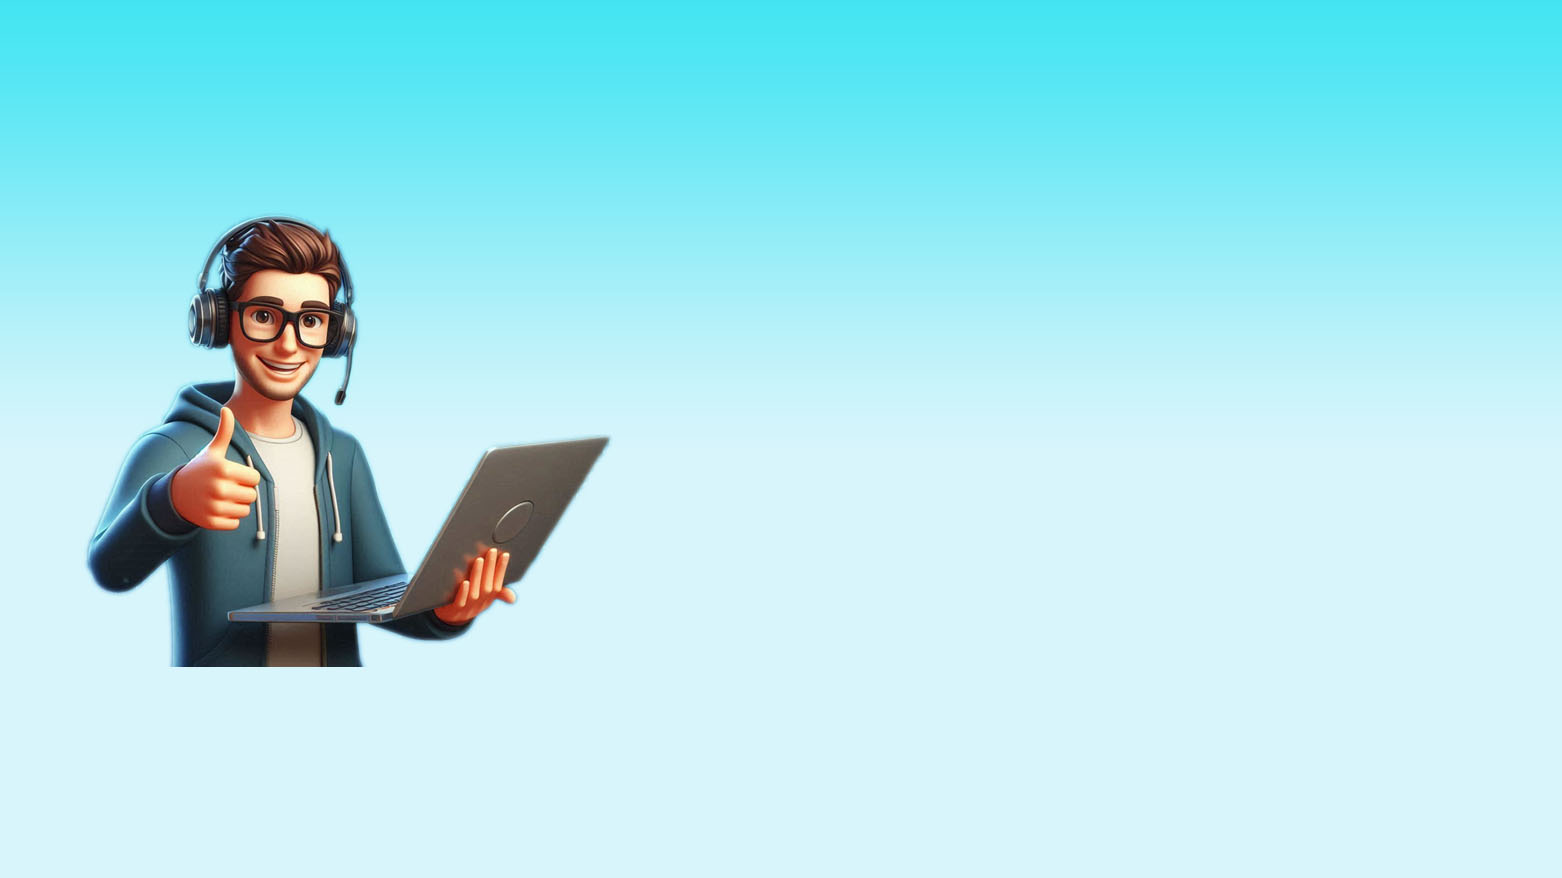
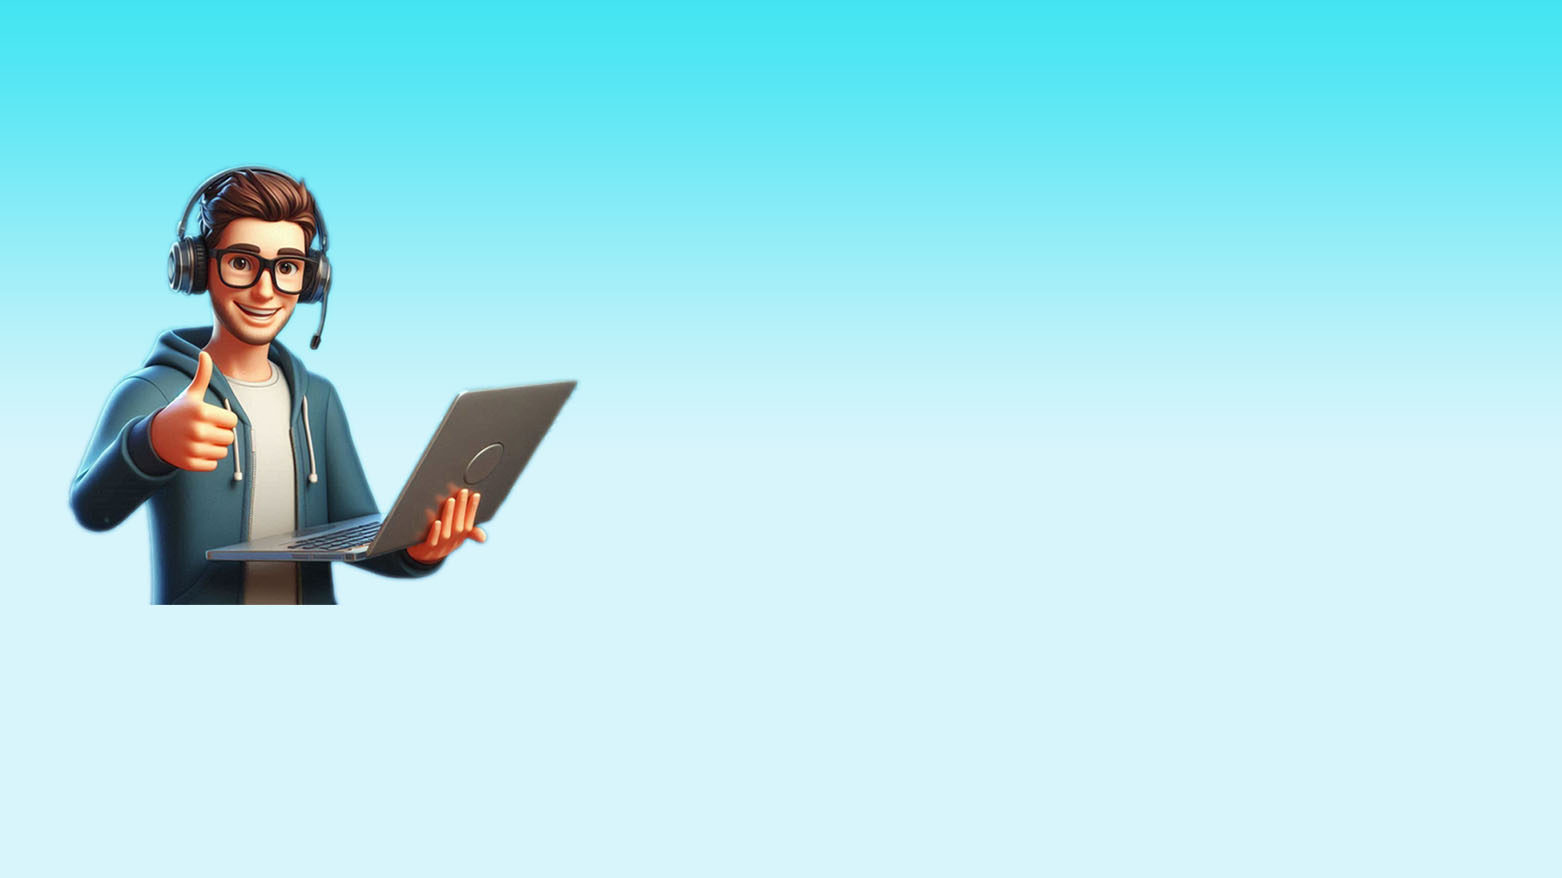
BGimage resolve

Changed region(s): [[0.0307, 0.1845, 0.3995, 0.7688]]

diff --git a/src/components/Hero/hero.jsx b/src/components/Hero/hero.jsx
@@ -1,9 +1,9 @@
 import React from "react";
 import Navbar from "./Navbar";
-import bgimg from "../../assets/images/Designer.png"
+import bgimg from "../../assets/images/bagimage_05.jpg"
 const Hero = () => {
   return (
-    <section id="hero-section" >
+    <section id="hero-section" style={{backgroundImage:`url(${bgimg})`}} >
       <Navbar />
 
       <div className="px-4 py-5 my-5 text-center">

diff --git a/src/index.css b/src/index.css
@@ -5,7 +5,8 @@ body {
     background-color:#dff4f5;
 }
 #hero-section {
-    background-image: url("../src/assets/images/bagimage_05.jpg") !important; 
+    /* background-image: url("../src/assets/images/bagimage_05.jpg") !important; 
+     */
     /* background-color: #E1F7F5; */
     
 
